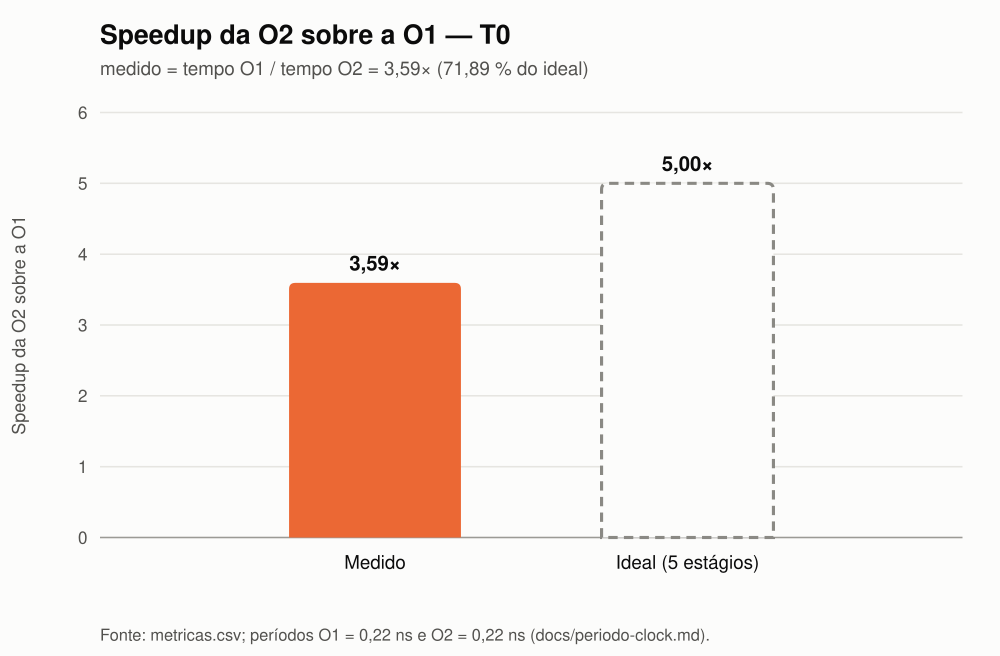
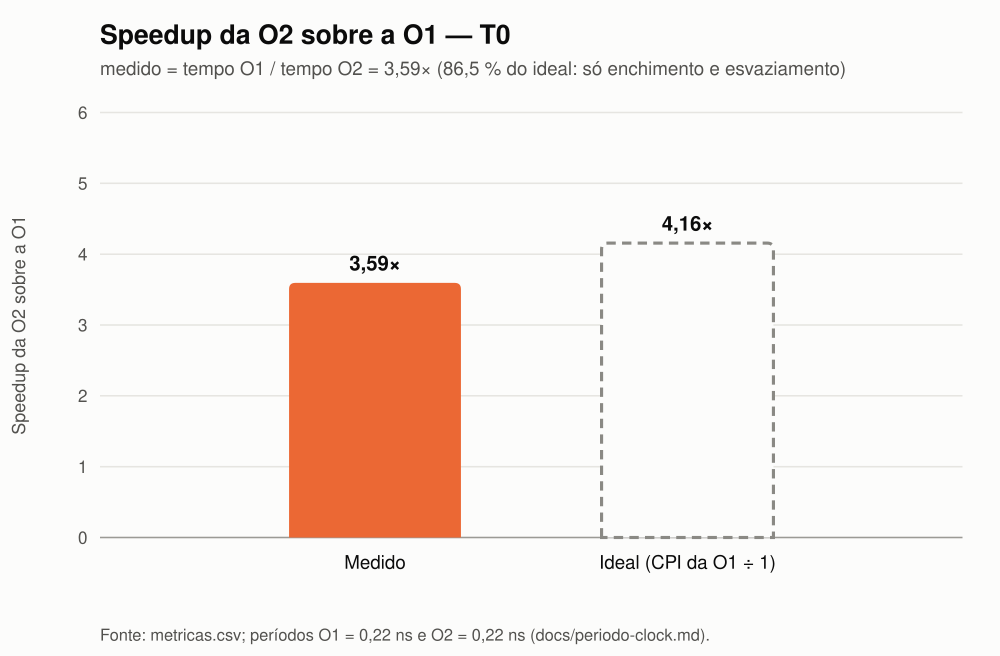
Docs: tabelas e gráficos regenerados com o novo speedup ideal
Saída do ./scripts/run_all.sh: T0 medido 3,595 e ideal 4,156 (86,5 %); série S de 50,0 % (5 instruções) a 97,6 % (200).

diff --git a/resultados/tabelas.md b/resultados/tabelas.md
@@ -11,15 +11,17 @@ Geradas por `scripts/run_all.sh` a partir de `metricas.csv` e `resultados/confli
 
 ## Speedup da O2 sobre a O1
 
-| Traço | Instruções | Ciclos O1 | Ciclos O2 | Speedup em ciclos (O1/O2) | Tempo O1 (ns) | Tempo O2 (ns) | Speedup em tempo | Speedup ideal (5 estágios) |
-| --- | --- | --- | --- | --- | --- | --- | --- | --- |
-| T0 | 32 | 133 | 37 | 3,595 | 29,260 | 8,140 | 3,595 | 5 |
-| S005 | 5 | 23 | 10 | 2,300 | 5,060 | 2,200 | 2,300 | 5 |
-| S010 | 10 | 43 | 15 | 2,867 | 9,460 | 3,300 | 2,867 | 5 |
-| S020 | 20 | 83 | 25 | 3,320 | 18,260 | 5,500 | 3,320 | 5 |
-| S050 | 50 | 205 | 55 | 3,727 | 45,100 | 12,100 | 3,727 | 5 |
-| S100 | 100 | 409 | 105 | 3,895 | 89,980 | 23,100 | 3,895 | 5 |
-| S200 | 200 | 815 | 205 | 3,976 | 179,300 | 45,100 | 3,976 | 5 |
+| Traço | Instruções | Ciclos O1 | Ciclos O2 | Speedup em ciclos (O1/O2) | Tempo O1 (ns) | Tempo O2 (ns) | Speedup em tempo | Speedup ideal (CPI O1 ÷ 1) | Medido / ideal |
+| --- | --- | --- | --- | --- | --- | --- | --- | --- | --- |
+| T0 | 32 | 133 | 37 | 3,595 | 29,260 | 8,140 | 3,595 | 4,156 | 86,5 % |
+| S005 | 5 | 23 | 10 | 2,300 | 5,060 | 2,200 | 2,300 | 4,600 | 50,0 % |
+| S010 | 10 | 43 | 15 | 2,867 | 9,460 | 3,300 | 2,867 | 4,300 | 66,7 % |
+| S020 | 20 | 83 | 25 | 3,320 | 18,260 | 5,500 | 3,320 | 4,150 | 80,0 % |
+| S050 | 50 | 205 | 55 | 3,727 | 45,100 | 12,100 | 3,727 | 4,100 | 90,9 % |
+| S100 | 100 | 409 | 105 | 3,895 | 89,980 | 23,100 | 3,895 | 4,090 | 95,2 % |
+| S200 | 200 | 815 | 205 | 3,976 | 179,300 | 45,100 | 3,976 | 4,075 | 97,6 % |
+
+**Speedup ideal** = CPI da O1 ÷ CPI ideal do pipeline (1), corrigido pela razão dos períodos: é o speedup que a O2 teria se não gastasse ciclos para encher e esvaziar o pipeline. Por isso **medido / ideal = instruções ÷ ciclos da O2** (no T0, 32/37), e a diferença é só enchimento e esvaziamento. A referência “número de estágios (5)” só valeria contra uma base com CPI 5; a O1 tem CPI ≈ 4,1 (R, addi e sw levam 4 ciclos, lw 5 e beq 3).
 
 Períodos de clock: O1 = 0,22 ns, O2 = 0,22 ns (critério e justificativa em `docs/periodo-clock.md`).
 
